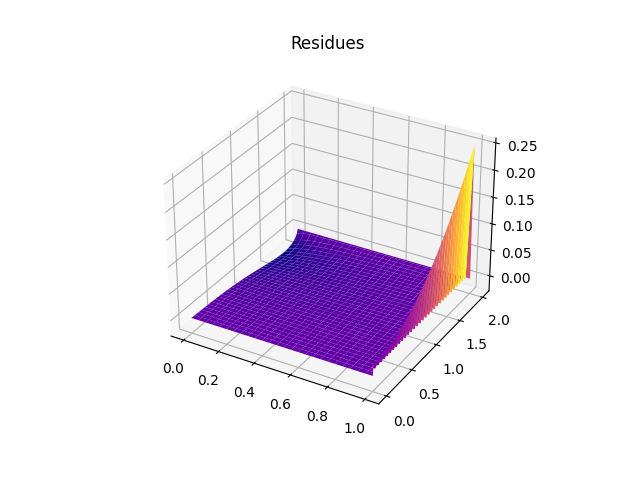
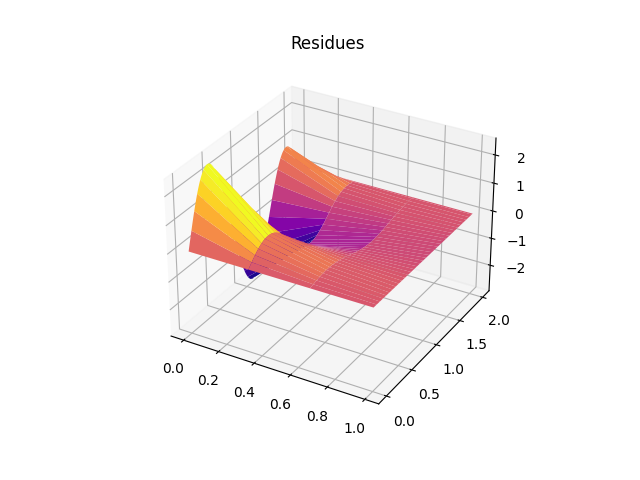
O(h^2) approximation

diff --git a/Better_(O(h2))_approximation_by_taylor_series.py b/Better_(O(h2))_approximation_by_taylor_series.py
@@ -1,0 +1,174 @@
+# Решение краевой задачи
+# -u'' + qu = f на x на (a1,b1); y на (a2,b2)
+# phi1=u(x,a2)=x; phi2=u(a1,y)=y^3+1+y
+# phi3=u(x,b2)=8x^2+x+2x; phi4=(u-du/dx)(b1,y)=-1-y
+
+# Решается модельная задача с известным
+# решением u(x)= x^2y^3+x+xy; q(x)= 1
+# В этом случае: f(x)=x^2*y^3+x+xy-2y^3-6yx^2
+
+
+# Здесь q(x) >= 0 на (a,b)
+# %%
+import matplotlib.pyplot as plt
+import numpy as np
+import pandas as pd
+
+A1 = 0
+B1 = 1
+A2 = 0
+B2 = 2
+
+# кол-во промежутков по Ox
+n=3
+# n = 50
+# шаг по Ox
+h1 = (B1 - A1) / n
+
+# кол-во промежутков по Oy
+# m=4
+m = 100
+# шаг по Oy
+h2 = (B2 - A2) / m
+
+q = 1
+
+
+def f(x, y):
+    return x ** 2 * (y ** 3) + x + x * y - 2 * (y ** 3) - 6 * y * (x ** 2)
+
+
+def phi1(x, y):
+    return x
+
+
+def phi2(x, y):
+    return y ** 3 + 1 + y
+
+
+def phi3(x, y):
+    return 8 * (x ** 2) + x + 2 * x
+
+
+def phi4(x, y):
+    return -1 - y
+
+
+def matrix_portrait(M, caption):
+    for i in range(len(M)):
+        for j in range(len(M)):
+            if M[i,j]!=0:
+                plt.plot(i+1,j+1,'b*')
+    plt.title(caption)
+    plt.show()
+
+# %%
+# формирование матрицы A и правой части b СЛАУ Au=b
+A = np.zeros((n * (m - 1), n * (m - 1)))
+B = np.zeros((n * (m - 1), 1))
+
+a = 2 / (h1 * h1) + 2 / (h2 * h2)
+b = -1 / (h1 * h1)
+c = -1 / (h2 * h2)
+d = 1 / h1
+a1= h1 / (2 * h2 * h2)
+b1= h1 / 2
+
+for i in range(n * (m - 1)):
+    x = A1 + (i % n) * h1
+    y = A2 + (int(i / n) + 1) * h2
+    if i % n == 0:
+        # A[i, i] =1+d + b1 * q + 2*a1
+        A[i, i] =1+d - b1 * q - 2*a1
+        A[i, i + 1] = -d
+        B[i] = phi4(x, y) - b1 * f(x, y)
+        if i==0:
+            B[i]-= a1 * phi1(A1, B1)
+        else:
+            A[i, i - n] = a1
+        if i==(m-2)*n:
+            B[i]-= a1 * phi3(A1, B2)
+        else:
+            A[i, i + n] = a1
+    else:
+        A[i, i] = a + q
+        A[i, i - 1] = b
+        B[i] = f(x, y)
+        if i % n == n - 1:
+            B[i]-= b * phi2(B1, y)
+        else:
+            A[i, i + 1] = b
+
+        if i - n > 0:
+            A[i, i - n] = c
+        else:
+            B[i] -= c * phi1(x, A2)
+
+        if i + n < n * (m - 1):
+            A[i, i + n] = c
+        else:
+            B[i] -= c * phi3(x, B2)
+
+matrix_portrait(A,"The matrix portrait")
+
+U = np.linalg.solve(A, B)
+u = np.zeros((m - 1, n))
+for i in range(m - 1):
+    for j in range(n):
+        u[i, j] = U[i * n + j]
+
+# print(u)
+Phi2 = np.array([[phi2(B1, A2 + i * h2) for i in range(1,m)]]).T
+
+# print(Phi2)
+u = np.c_[u, Phi2]
+# The resulting function
+u = np.r_[np.array([[phi1(A1 + i * h1, A2) for i in range(n + 1)]]), u, np.array(
+    [[phi3(A1 + i * h1, A2) for i in range(n + 1)]])]
+print("The resulting function", u)
+
+
+# %% Check
+def u_t(x, y):
+    return x ** 2 * (y ** 3) + x + x * y
+
+
+u_t_d = np.zeros((m + 1, n + 1))
+
+for i in range(m + 1):
+    for j in range(n + 1):
+        u_t_d[i, j] = u_t(A1 + h1 * j, A2 + h2 * i)
+
+# print(u_t_d)
+
+MSE = (abs(u_t_d - u) ** 2).sum() / ((n + 1) * (m + 1))
+print("MSE: ", MSE)
+
+X = np.linspace(A1, B1, n + 1)
+Y = np.linspace(A2, B2, m + 1)
+X, Y = np.meshgrid(X, Y)
+
+fig = plt.figure()
+ax = fig.add_subplot(projection='3d')
+# The resulting function
+ax.plot_surface(X, Y, u, cmap='plasma')
+plt.title("Numerical_solution")
+plt.savefig("Numerical_solution.png")
+plt.show()
+
+# Original function
+fig = plt.figure()
+ax = fig.add_subplot(projection='3d')
+ax.plot_surface(X, Y, u_t(X, Y), cmap='plasma')
+plt.title("Original function")
+plt.savefig("Original_function.png")
+plt.show()
+
+fig = plt.figure()
+ax = fig.add_subplot(projection='3d')
+ax.plot_surface(X, Y, u_t(X, Y) - u, cmap='plasma')
+plt.title("Residues")
+plt.savefig("Residues.png")
+plt.show()
+
+pd.DataFrame(u).to_csv("Better_numerical_solution.csv")

diff --git a/O(h)_approximation .py b/O(h)_approximation .py
@@ -20,12 +20,14 @@ a2 = 0
 b2 = 2
 
 # кол-во промежутков по Ox
-n = 50
+n = 3
+# n = 50
 # шаг по Ox
 h1 = (b1 - a1) / n
 
 # кол-во промежутков по Oy
-m = 100
+m = 4
+# m = 100
 # шаг по Oy
 h2 = (b2 - a2) / m
 
@@ -65,6 +67,14 @@ def phi(x, y):
         raise IOError("Error in phi")
 
 
+def matrix_portrait(M, caption):
+    for i in range(len(M)):
+        for j in range(len(M)):
+            if M[i,j]!=0:
+                plt.plot(i+1,j+1,'b*')
+    plt.title(caption)
+    plt.show()
+
 # %%
 # формирование матрицы A и правой части b СЛАУ Au=b
 A = np.zeros((n * (m - 1), n * (m - 1)))
@@ -85,20 +95,24 @@ for i in range(n * (m - 1)):
     else:
         A[i, i] = a + q
         A[i, i - 1] = b
+        B[i] = f(x, y)
         if i % n == n - 1:
-            B[i] = f(x, y) - b * phi(b1, y)
+            B[i]-= b * phi(b1, y)
         else:
             A[i, i + 1] = b
-            B[i] = f(x, y)
+
+        if i - n > 0:
+            A[i, i - n] = c
+        else:
+            B[i] -= c * phi(x, a2)
 
         if i + n < n * (m - 1):
             A[i, i + n] = c
         else:
             B[i] -= c * phi(x, b2)
-        if i - n > 0:
-            A[i, i - n] = c
-        else:
-            B[i] -= c * phi(x, a2)
+
+
+matrix_portrait(A,"The matrix portrait")
 
 U = np.linalg.solve(A, B)
 u = np.zeros((m - 1, n))
@@ -107,14 +121,13 @@ for i in range(m - 1):
         u[i, j] = U[i * n + j]
 
 # print(u)
-Phi2 = np.array([[phi2(a1, a2 + i * h2) for i in range(m - 1)]]).T
+Phi2 = np.array([[phi2(b1, a2 + i * h2) for i in range(1,m)]]).T
 # print(Phi2)
 u = np.c_[u, Phi2]
 # The resulting function
 u = np.r_[np.array([[phi1(a1 + i * h1, a2) for i in range(n + 1)]]), u, np.array(
     [[phi3(a1 + i * h1, a2) for i in range(n + 1)]])]
 print("The resulting function", u)
-
 
 # %% Check
 def u_t(x, y):
@@ -131,6 +144,7 @@ for i in range(m + 1):
 
 MSE = (abs(u_t_d - u) ** 2).sum() / ((n + 1) * (m + 1))
 print("MSE: ", MSE)
+
 
 X = np.linspace(a1, b1, n + 1)
 Y = np.linspace(a2, b2, m + 1)
@@ -160,3 +174,4 @@ plt.savefig("Residues.png")
 plt.show()
 
 pd.DataFrame(u).to_csv("Numerical_solution.csv")
+
